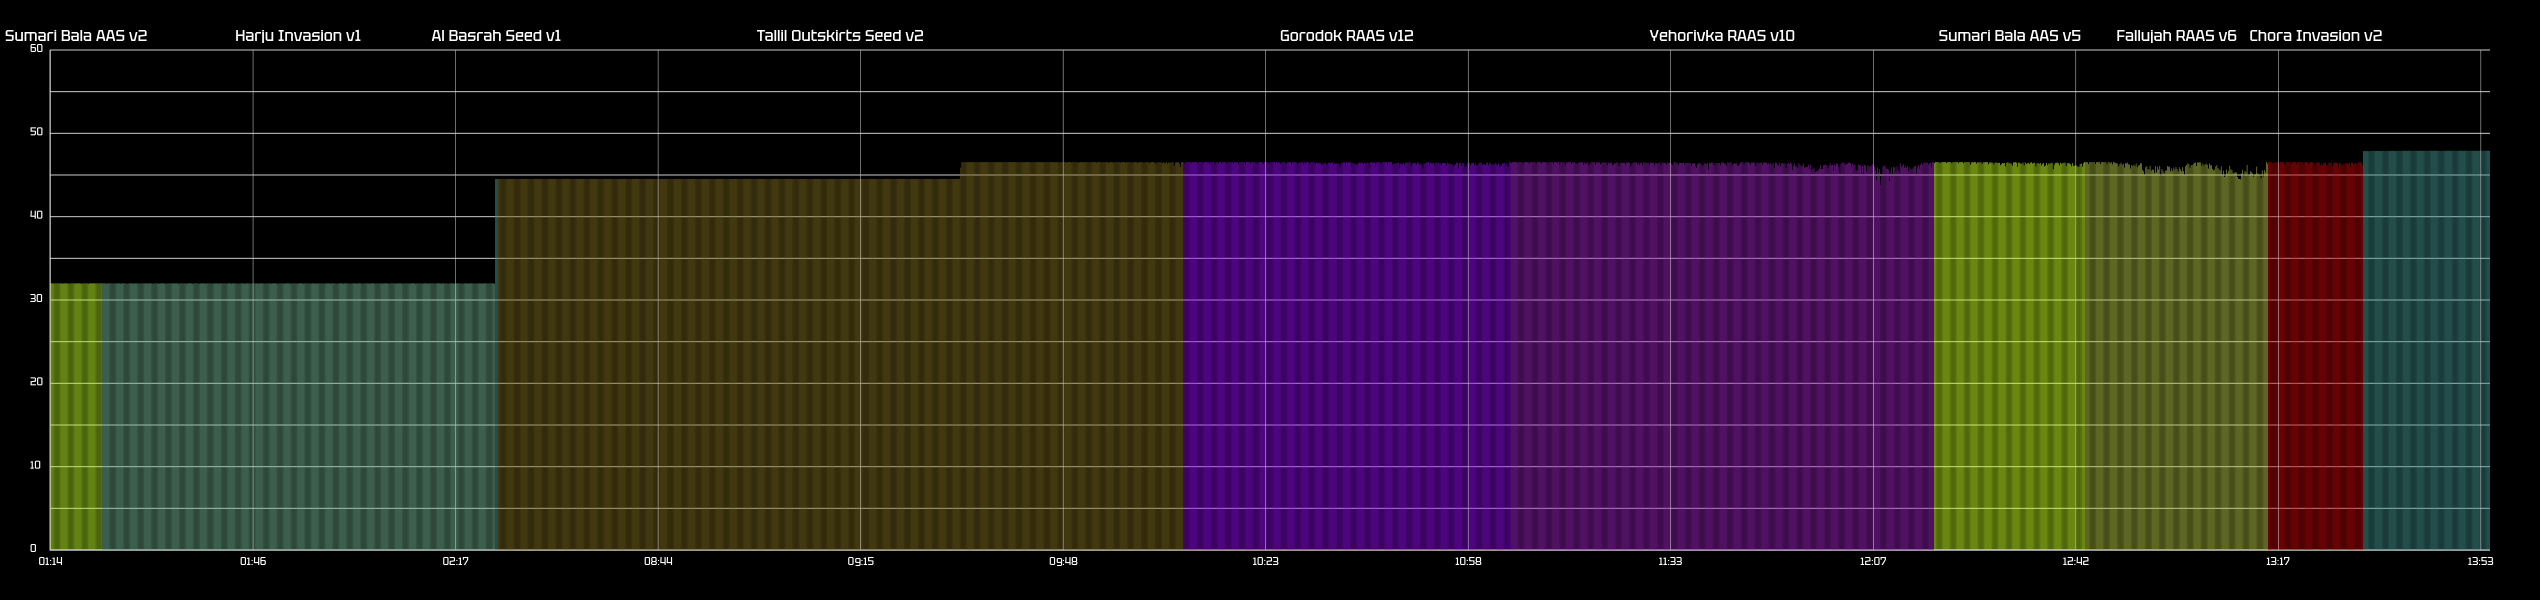
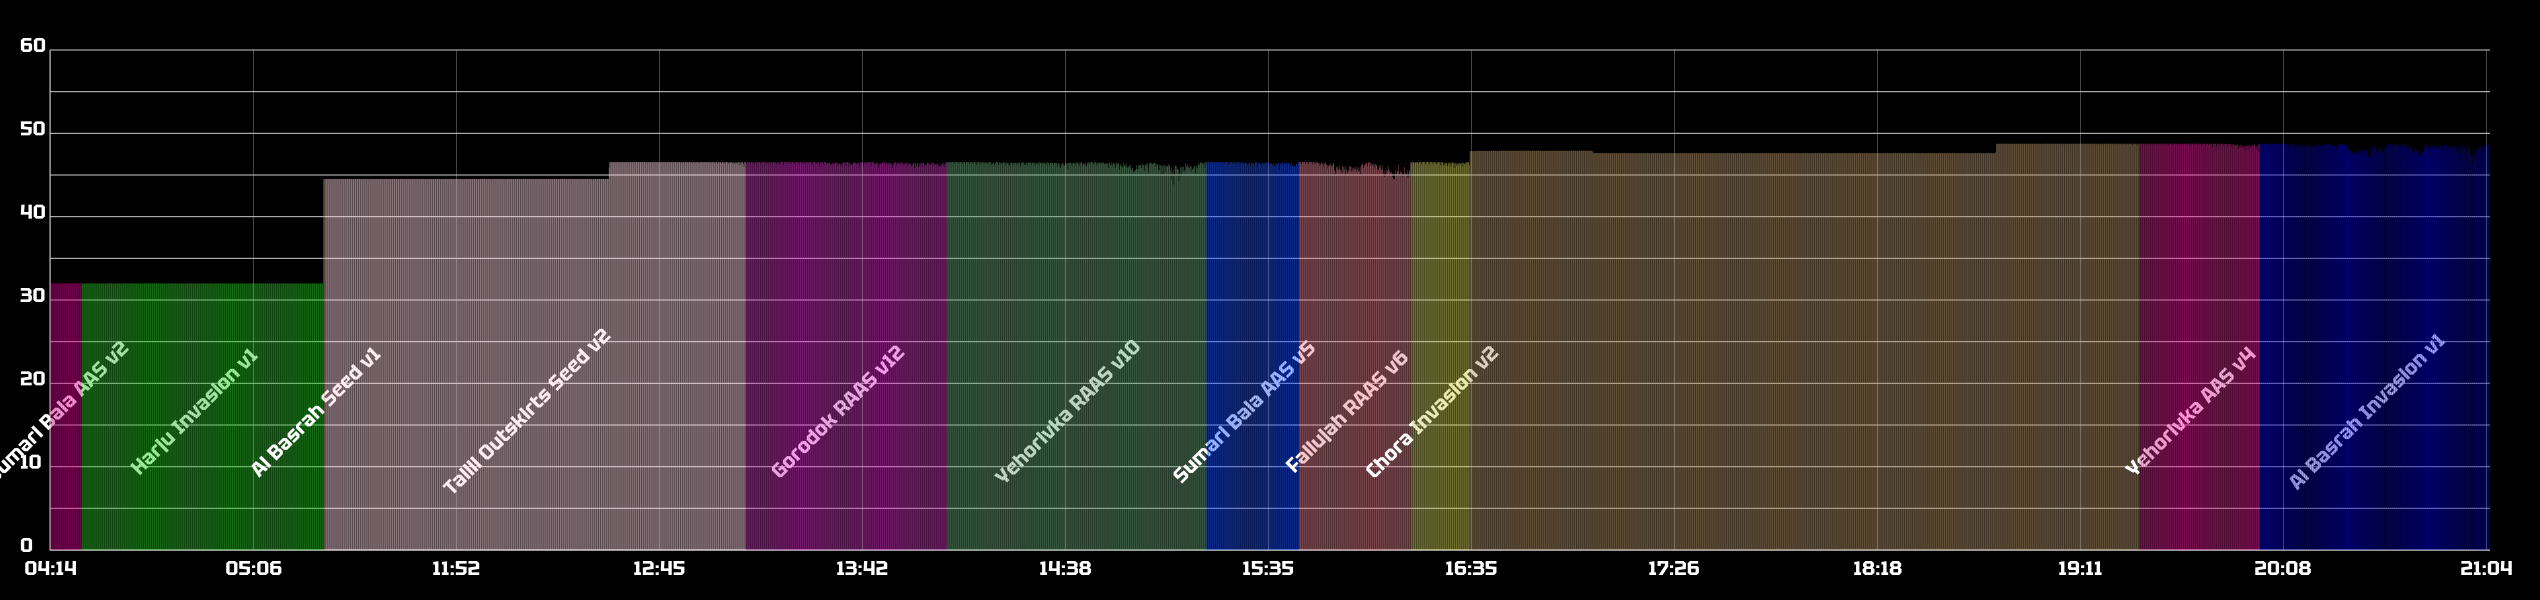
change name layers

diff --git a/chartTickRate.js b/chartTickRate.js
@@ -10,7 +10,7 @@ const canvasHeight = 600;
 const margin = 50; // Уменьшил отступ
 
 // Загрузка и регистрация шрифта
-registerFont("./img/Tektur-Regular.ttf", { family: "MyFont" }); // Замените "путь_к_шрифту.ttf" на путь к вашему шрифту
+registerFont("./img/Tektur-Bold.ttf", { family: "MyFont" }); // Замените "путь_к_шрифту.ttf" на путь к вашему шрифту
 
 // Объект для хранения цветов, привязанных к именам
 const nameColors = {};
@@ -58,9 +58,9 @@ async function drawChart(dataPoints, canvas) {
 
     // Подписи к отметкам
     if (i % 2 === 0) {
-      ctx.font = "10px MyFont"; // Увеличил размер шрифта на 2 пикселя
+      ctx.font = "20px MyFont"; // Увеличил размер шрифта на 2 пикселя
       ctx.fillStyle = "white"; // Изменил цвет цифр на белый
-      ctx.fillText((i * 5).toString(), margin - 20, y + 2); // Подправил координаты отметок
+      ctx.fillText((i * 5).toString(), margin - 30, y + 2); // Подправил координаты отметок
     }
   }
   ctx.strokeStyle = "#ccc";
@@ -94,11 +94,11 @@ async function drawChart(dataPoints, canvas) {
     ctx.fillRect(x, y, stepX / 2, height);
 
     // Выводим имена над столбцами
-    ctx.font = "15px MyFont";
+    ctx.font = "20px MyFont";
     ctx.fillStyle = "white";
     ctx.textAlign = "center";
     ctx.textBaseline = "bottom";
-    const nameY = 45;
+    const nameY = 420;
 
     // Проверяем, было ли имя уже выведено
     if (!(dataPoint.name in nameCounts) || nameCounts[dataPoint.name] === 0) {
@@ -120,7 +120,15 @@ async function drawChart(dataPoints, canvas) {
 
       const groupWidth = (groupEndIndex - groupStartIndex + 1) * stepX;
       const groupNameX = margin + groupStartIndex * stepX + groupWidth / 2;
-      ctx.fillText(dataPoint.name, groupNameX, nameY);
+
+      // Поворачиваем контекст на 45 градусов
+      ctx.save();
+      ctx.translate(groupNameX, nameY);
+      ctx.rotate(-Math.PI / 4); // Поворот против часовой стрелки на 45 градусов
+
+      ctx.fillText(dataPoint.name, 0, 0);
+
+      ctx.restore(); // Восстанавливаем исходное состояние контекста
 
       // Обновляем счетчик для этой группы
       for (let j = groupStartIndex; j <= groupEndIndex; j++) {
@@ -132,22 +140,27 @@ async function drawChart(dataPoints, canvas) {
   }
 
   // Отрисовка времени и вертикальных меток на оси X
-  ctx.font = "10px MyFont"; // Уменьшил размер шрифта времени на 3 пикселя
+  ctx.font = "20px MyFont"; // Уменьшил размер шрифта времени на 3 пикселя
   ctx.fillStyle = "white"; // Цвет времени - белый
   ctx.textAlign = "center";
   ctx.textBaseline = "top"; // Текст будет начинаться от верхнего края
   const halfHourStep = Math.floor(dataPoints.length / 12); // Шаг в полчаса (по 12 отметок на графике)
+
   for (let i = 0; i < dataPoints.length; i += halfHourStep) {
     const dataPoint = dataPoints[i];
     const x = margin + i * stepX + stepX / 2;
     const y = canvasHeight - margin + 5; // Смещение времени вниз от оси X
-    const timestamp = dataPoint.timestamp
-      .toISOString()
-      .split("T")[1]
-      .slice(0, 5); // Форматирование времени без секунд
+
+    // Увеличиваем время на 3 часа
+    const timestamp = new Date(dataPoint.timestamp);
+    timestamp.setHours(timestamp.getHours() + 3);
+
+    // Форматирование времени без секунд
+    const formattedTime = timestamp.toISOString().split("T")[1].slice(0, 5);
+
     ctx.save();
     ctx.translate(x, y);
-    ctx.fillText(timestamp, 0, 0);
+    ctx.fillText(formattedTime, 0, 0);
     ctx.restore();
 
     // Отрисовка вертикальной линии
@@ -167,7 +180,6 @@ async function fetchDataFromMongoDB(serverId) {
     await client.connect();
     const database = client.db("SquadJS");
     const collection = database.collection("serverinfo");
-    console.log(`server` + serverId);
     const mongoData = await collection.findOne({ _id: `server` + serverId });
     return mongoData.tickRate.map(([date, name, value]) => ({
       timestamp: new Date(date),
@@ -183,7 +195,6 @@ async function fetchDataFromMongoDB(serverId) {
 }
 
 async function createChart({ channel, serverId, messageId, seconds }) {
-  console.log(serverId);
   setTimeout(async () => {
     // Получение данных из MongoDB
     const dataPoints = await fetchDataFromMongoDB(serverId);
